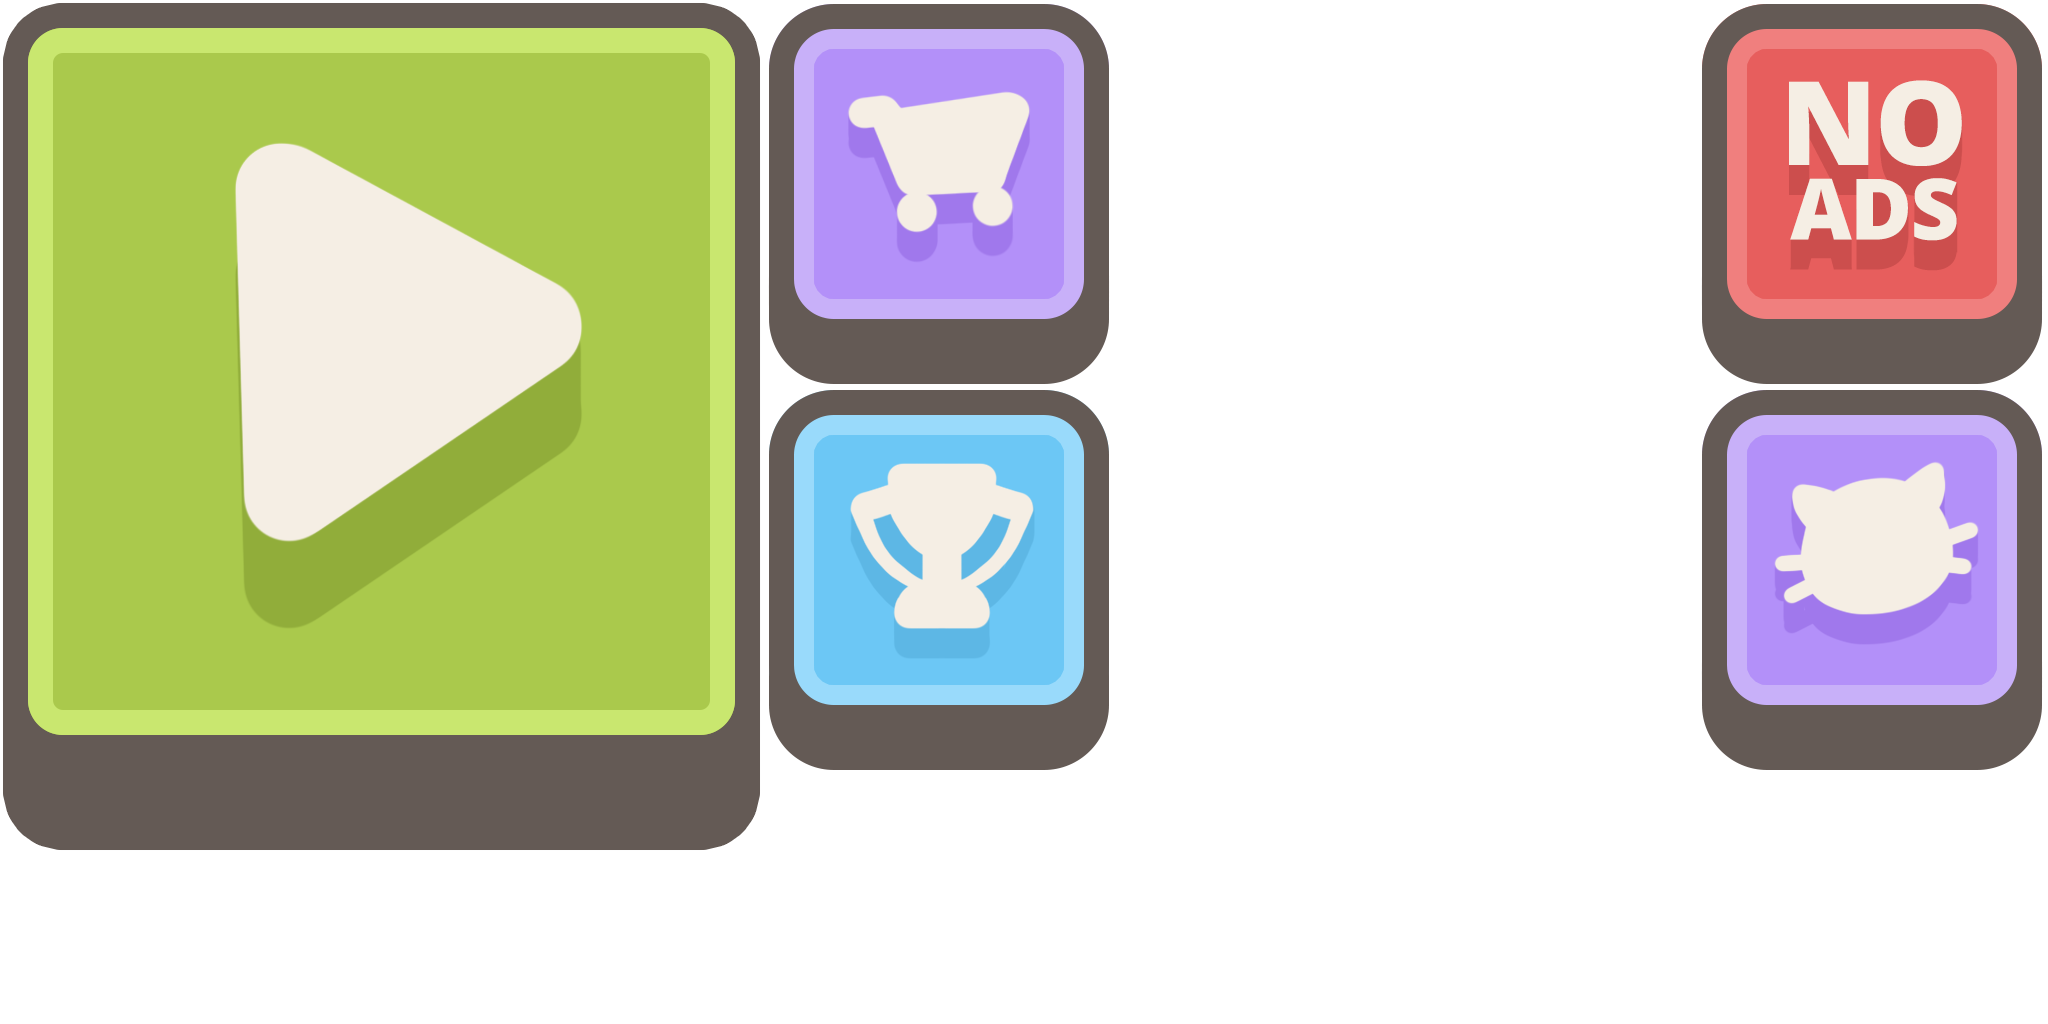
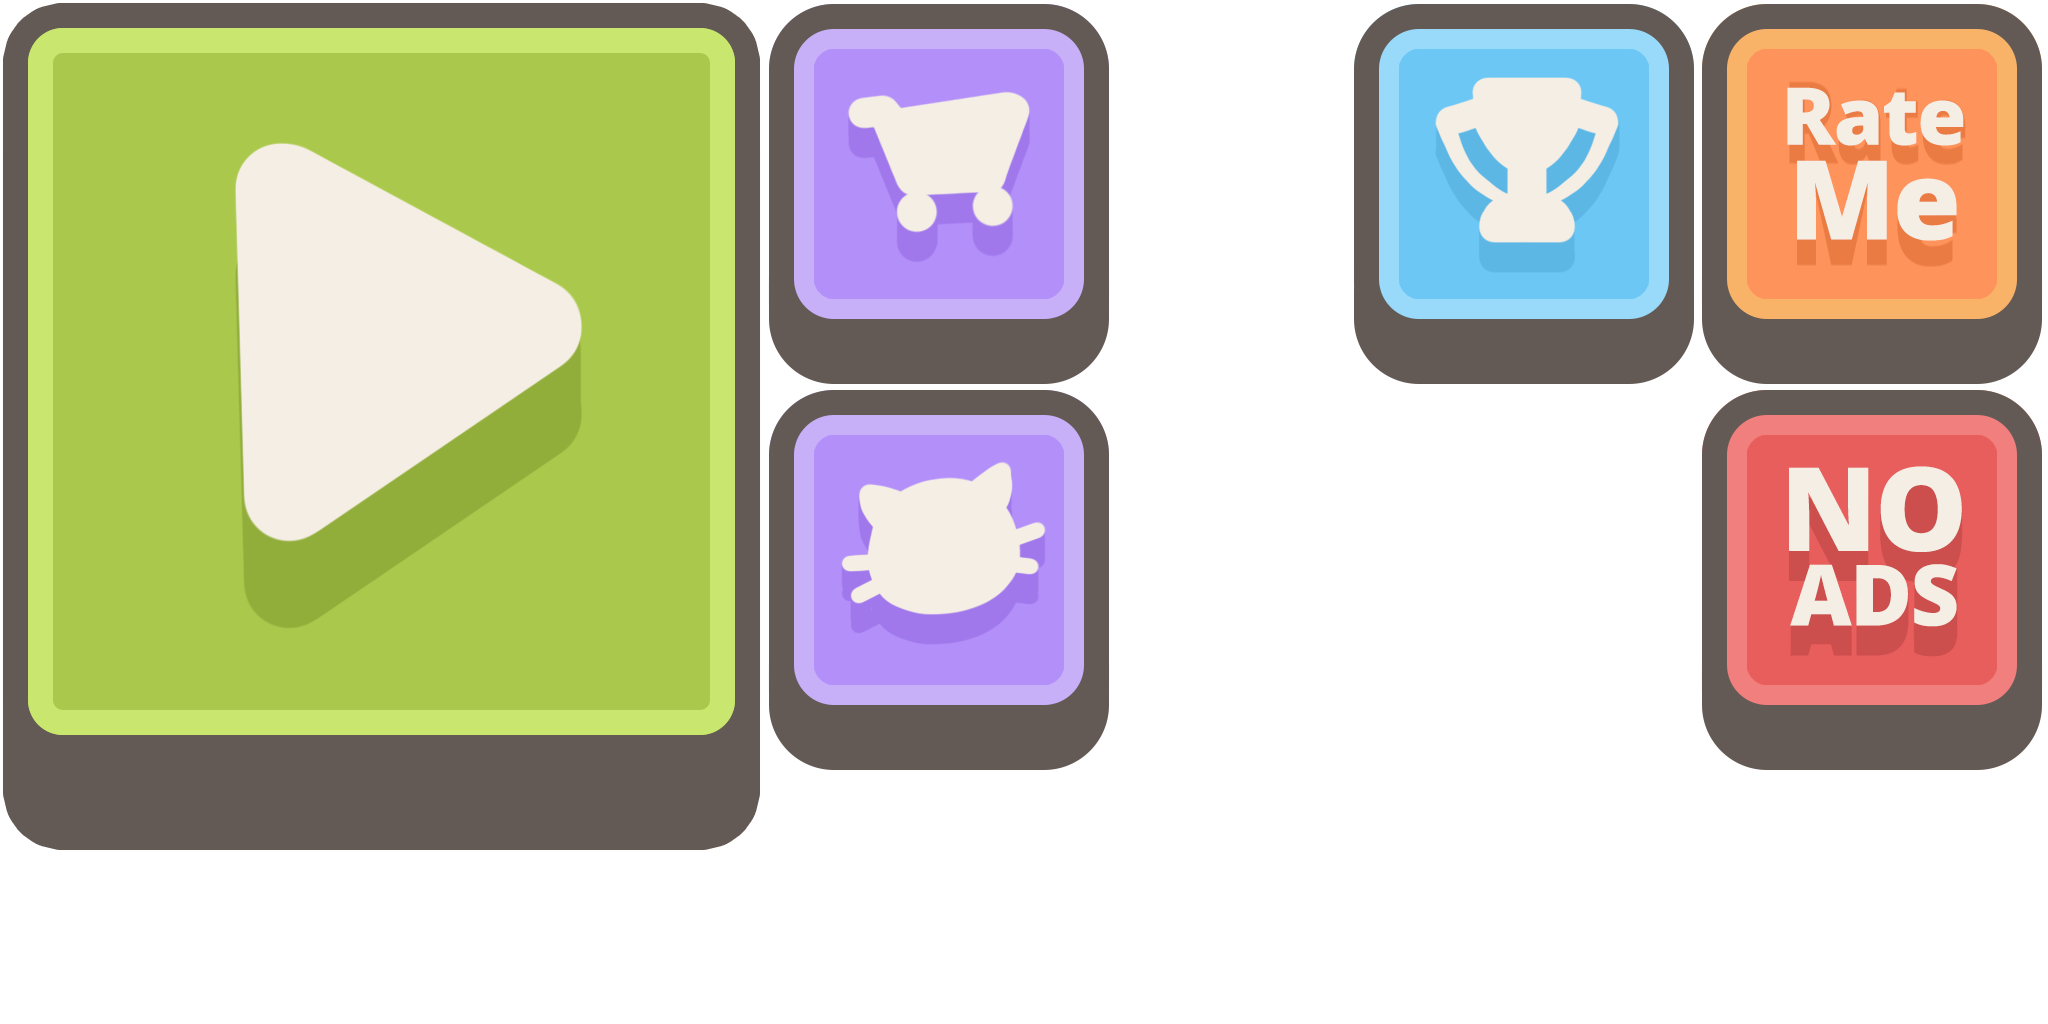
add button rate me

Changed region(s): [[0.6562, 0.0, 1.0, 0.375], [0.8438, 0.4062, 1.0, 0.6875], [0.375, 0.4062, 0.5312, 0.6875]]

diff --git a/Assets/Scripts/UI/TitleScene.cs b/Assets/Scripts/UI/TitleScene.cs
@@ -30,6 +30,7 @@ public class TitleScene : MonoBehaviour
     [SerializeField] private Button btnShop;
     [SerializeField] private Button btnLeaderboard;
     [SerializeField] private Button btnNoAd;
+    [SerializeField] private Button btnRateMe;
 
     [SerializeField] private Button btnReset;
 
@@ -67,6 +68,7 @@ public class TitleScene : MonoBehaviour
         btnShop.gameObject.SetActive(false);
         btnLeaderboard.gameObject.SetActive(false);
         btnNoAd.gameObject.SetActive(false);
+        btnRateMe.gameObject.SetActive(false);
         customWindow.gameObject.SetActive(false);
         
         objLeaderboard.gameObject.SetActive(false);
@@ -80,6 +82,7 @@ public class TitleScene : MonoBehaviour
         btnLeaderboard.onClick.AddListener(GoToLeaderboard);
         btnNextLeaderboard.onClick.AddListener(CloseLeaderboard);
         btnNoAd.onClick.AddListener(OnNoAdButtonClicked);
+        btnRateMe.onClick.AddListener(OnRateMeButtonClicked);
         
         if (CommonVars.AnimateStart)
         {
@@ -143,6 +146,7 @@ public class TitleScene : MonoBehaviour
         btnPlay.gameObject.SetActive(true);
 #if (UNITY_ANDROID || UNITY_IOS)
         btnNoAd.gameObject.SetActive(true);
+        btnRateMe.gameObject.SetActive(true);
 #else
         btnShop.gameObject.SetActive(true);
 #endif
@@ -162,6 +166,7 @@ public class TitleScene : MonoBehaviour
         btnPlay.gameObject.SetActive(true);
         #if (UNITY_ANDROID || UNITY_IOS)
         btnNoAd.gameObject.SetActive(true);
+        btnRateMe.gameObject.SetActive(true);
         #else
         btnShop.gameObject.SetActive(true);
         #endif
@@ -261,5 +266,10 @@ public class TitleScene : MonoBehaviour
     private void CloseErrorMessage()
     {
         objError.SetActive(false);
+    }
+
+    private void OnRateMeButtonClicked()
+    {
+        SoundController.Instance.PlayButtonClip();
     }
 }
